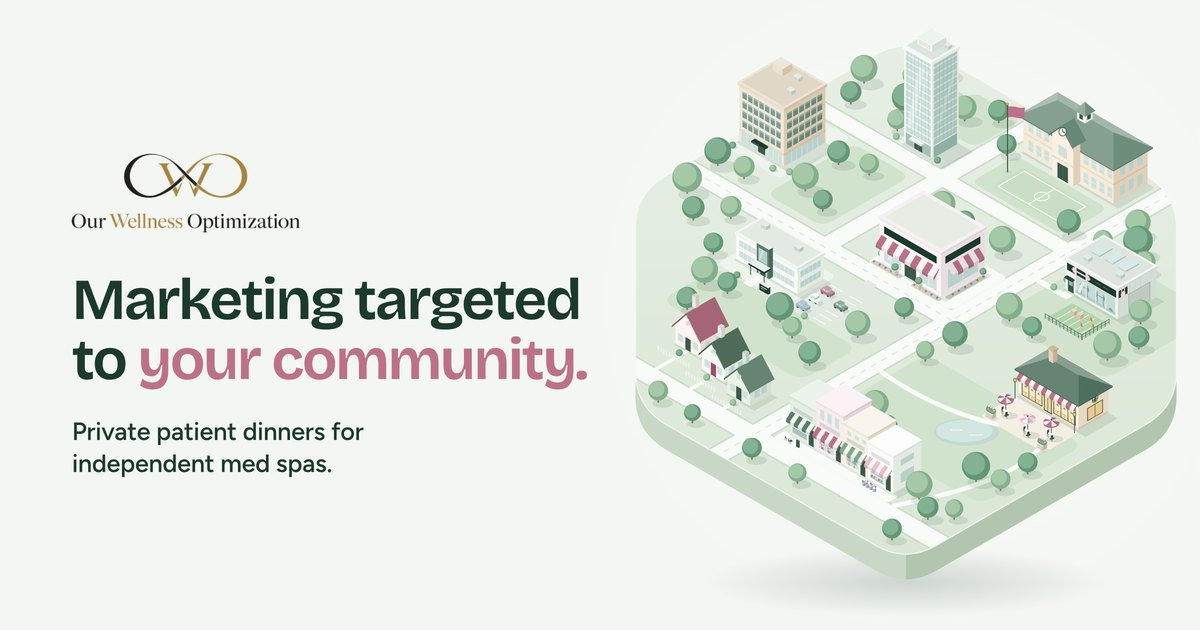
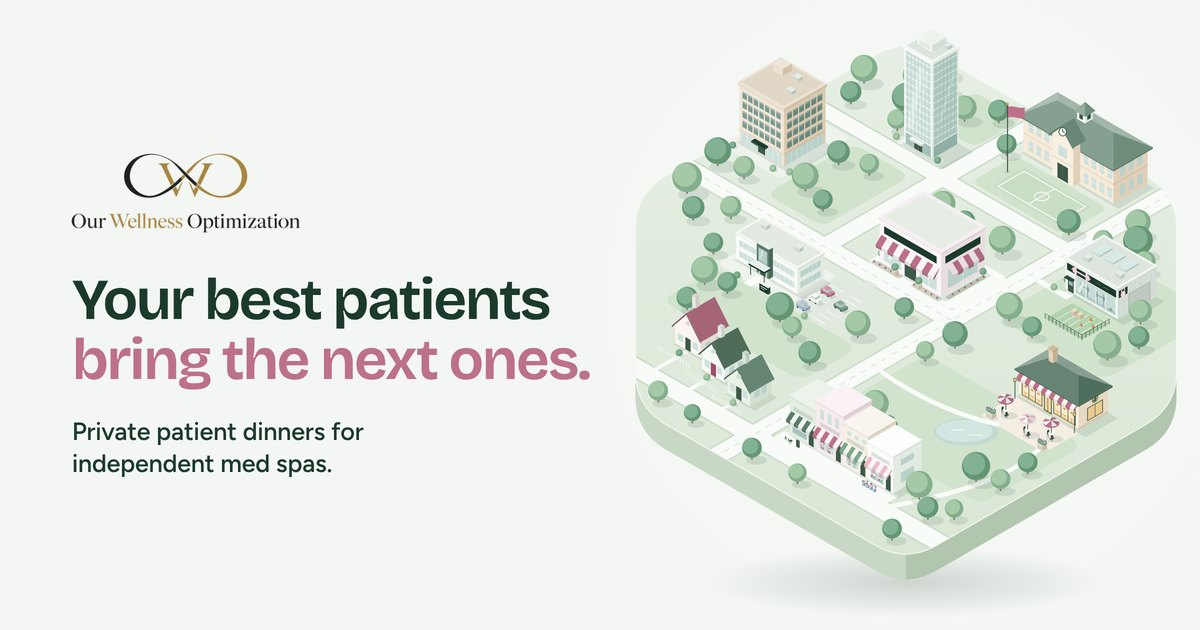
Share image: "Your best patients bring the next ones." (#19)
New share image og-best-patients.jpg (1200x630) with the current headline,
under a new file name so social platforms fetch it fresh. og:image and
og:image:alt updated on all seven pages with share tags; og.jpg,
og-community.jpg and og-dinners.jpg now carry the same art for older links.

Claude-Session: https://claude.ai/code/session_01QqY3Uip16oYiFzTZFxaAGH

Changed region(s): [[0.0617, 0.4222, 0.4933, 0.6333]]

diff --git a/index.html b/index.html
@@ -16,10 +16,10 @@
 <meta property="og:title" content="Your Best Patients Bring the Next Ones | Patient Dinners for Med Spas">
 <meta property="og:description" content="Your best patients bring the next ones. We plan and run private patient dinners for independent med spas in Chicago&rsquo;s western suburbs.">
 <meta property="og:url" content="https://ouroptimization.com/">
-<meta property="og:image" content="https://ouroptimization.com/assets/img/og-dinners.jpg">
+<meta property="og:image" content="https://ouroptimization.com/assets/img/og-best-patients.jpg">
 <meta property="og:image:width" content="1200">
 <meta property="og:image:height" content="630">
-<meta property="og:image:alt" content="Our Wellness Optimization logo with the words &ldquo;Marketing targeted to your community.&rdquo; and &ldquo;Private patient dinners for independent med spas.&rdquo; beside an illustrated map of a neighborhood around a clinic.">
+<meta property="og:image:alt" content="Our Wellness Optimization logo with the words &ldquo;Your best patients bring the next ones.&rdquo; and &ldquo;Private patient dinners for independent med spas.&rdquo; beside an illustrated map of a neighborhood around a clinic.">
 <meta name="twitter:card" content="summary_large_image">
 <meta name="twitter:title" content="Your Best Patients Bring the Next Ones | Patient Dinners for Med Spas">
 <meta name="twitter:description" content="Your best patients bring the next ones. We plan and run private patient dinners for independent med spas in Chicago&rsquo;s western suburbs.">

diff --git a/review-tags.html b/review-tags.html
@@ -16,10 +16,10 @@
 <meta property="og:title" content="Tap-to-Review NFC Tags | Our Wellness Optimization">
 <meta property="og:description" content="Branded NFC review tags with a QR code on the same piece: counter stands, table tents, cards and stickers that open your Google review form in one tap or scan.">
 <meta property="og:url" content="https://ouroptimization.com/review-tags">
-<meta property="og:image" content="https://ouroptimization.com/assets/img/og-dinners.jpg">
+<meta property="og:image" content="https://ouroptimization.com/assets/img/og-best-patients.jpg">
 <meta property="og:image:width" content="1200">
 <meta property="og:image:height" content="630">
-<meta property="og:image:alt" content="Our Wellness Optimization logo with the words &ldquo;Marketing targeted to your community.&rdquo; and &ldquo;Private patient dinners for independent med spas.&rdquo; beside an illustrated map of a neighborhood around a clinic.">
+<meta property="og:image:alt" content="Our Wellness Optimization logo with the words &ldquo;Your best patients bring the next ones.&rdquo; and &ldquo;Private patient dinners for independent med spas.&rdquo; beside an illustrated map of a neighborhood around a clinic.">
 <meta name="twitter:card" content="summary_large_image">
 <link rel="preload" href="assets/fonts/figtree-latin-wght-normal.woff2" as="font" type="font/woff2" crossorigin>
 <link rel="preload" href="assets/fonts/bricolage-grotesque-latin-wght-normal.woff2" as="font" type="font/woff2" crossorigin>

diff --git a/website-design.html b/website-design.html
@@ -16,10 +16,10 @@
 <meta property="og:title" content="Website Redesign | Our Wellness Optimization">
 <meta property="og:description" content="Website redesign for local clinics: service and area pages, a clear way to call or book on every page, fast mobile pages and tracking by channel.">
 <meta property="og:url" content="https://ouroptimization.com/website-design">
-<meta property="og:image" content="https://ouroptimization.com/assets/img/og-dinners.jpg">
+<meta property="og:image" content="https://ouroptimization.com/assets/img/og-best-patients.jpg">
 <meta property="og:image:width" content="1200">
 <meta property="og:image:height" content="630">
-<meta property="og:image:alt" content="Our Wellness Optimization logo with the words &ldquo;Marketing targeted to your community.&rdquo; and &ldquo;Private patient dinners for independent med spas.&rdquo; beside an illustrated map of a neighborhood around a clinic.">
+<meta property="og:image:alt" content="Our Wellness Optimization logo with the words &ldquo;Your best patients bring the next ones.&rdquo; and &ldquo;Private patient dinners for independent med spas.&rdquo; beside an illustrated map of a neighborhood around a clinic.">
 <meta name="twitter:card" content="summary_large_image">
 <link rel="preload" href="assets/fonts/figtree-latin-wght-normal.woff2" as="font" type="font/woff2" crossorigin>
 <link rel="preload" href="assets/fonts/bricolage-grotesque-latin-wght-normal.woff2" as="font" type="font/woff2" crossorigin>

diff --git a/terms.html b/terms.html
@@ -16,10 +16,10 @@
 <meta property="og:title" content="Terms of Service | Our Wellness Optimization">
 <meta property="og:description" content="How our patient dinners and add-ons for independent med spas work, how prices are agreed and work is approved, and what we do and do not promise.">
 <meta property="og:url" content="https://ouroptimization.com/terms">
-<meta property="og:image" content="https://ouroptimization.com/assets/img/og-dinners.jpg">
+<meta property="og:image" content="https://ouroptimization.com/assets/img/og-best-patients.jpg">
 <meta property="og:image:width" content="1200">
 <meta property="og:image:height" content="630">
-<meta property="og:image:alt" content="Our Wellness Optimization logo with the words &ldquo;Marketing targeted to your community.&rdquo; and &ldquo;Private patient dinners for independent med spas.&rdquo; beside an illustrated map of a neighborhood around a clinic.">
+<meta property="og:image:alt" content="Our Wellness Optimization logo with the words &ldquo;Your best patients bring the next ones.&rdquo; and &ldquo;Private patient dinners for independent med spas.&rdquo; beside an illustrated map of a neighborhood around a clinic.">
 <meta name="twitter:card" content="summary_large_image">
 <link rel="preload" href="assets/fonts/figtree-latin-wght-normal.woff2" as="font" type="font/woff2" crossorigin>
 <link rel="preload" href="assets/fonts/bricolage-grotesque-latin-wght-normal.woff2" as="font" type="font/woff2" crossorigin>

diff --git a/privacy.html b/privacy.html
@@ -16,10 +16,10 @@
 <meta property="og:title" content="Privacy Policy | Our Wellness Optimization">
 <meta property="og:description" content="What the call request form and the expo table form collect, how we use it, who else sees it, and how to ask us to delete it.">
 <meta property="og:url" content="https://ouroptimization.com/privacy">
-<meta property="og:image" content="https://ouroptimization.com/assets/img/og-dinners.jpg">
+<meta property="og:image" content="https://ouroptimization.com/assets/img/og-best-patients.jpg">
 <meta property="og:image:width" content="1200">
 <meta property="og:image:height" content="630">
-<meta property="og:image:alt" content="Our Wellness Optimization logo with the words &ldquo;Marketing targeted to your community.&rdquo; and &ldquo;Private patient dinners for independent med spas.&rdquo; beside an illustrated map of a neighborhood around a clinic.">
+<meta property="og:image:alt" content="Our Wellness Optimization logo with the words &ldquo;Your best patients bring the next ones.&rdquo; and &ldquo;Private patient dinners for independent med spas.&rdquo; beside an illustrated map of a neighborhood around a clinic.">
 <meta name="twitter:card" content="summary_large_image">
 <link rel="preload" href="assets/fonts/figtree-latin-wght-normal.woff2" as="font" type="font/woff2" crossorigin>
 <link rel="preload" href="assets/fonts/bricolage-grotesque-latin-wght-normal.woff2" as="font" type="font/woff2" crossorigin>

diff --git a/thanks.html b/thanks.html
@@ -17,10 +17,10 @@
 <meta property="og:title" content="Thank You | Our Wellness Optimization">
 <meta property="og:description" content="Thank you. Mustafa will call you at the time you picked.">
 <meta property="og:url" content="https://ouroptimization.com/thanks">
-<meta property="og:image" content="https://ouroptimization.com/assets/img/og-dinners.jpg">
+<meta property="og:image" content="https://ouroptimization.com/assets/img/og-best-patients.jpg">
 <meta property="og:image:width" content="1200">
 <meta property="og:image:height" content="630">
-<meta property="og:image:alt" content="Our Wellness Optimization logo with the words &ldquo;Marketing targeted to your community.&rdquo; and &ldquo;Private patient dinners for independent med spas.&rdquo; beside an illustrated map of a neighborhood around a clinic.">
+<meta property="og:image:alt" content="Our Wellness Optimization logo with the words &ldquo;Your best patients bring the next ones.&rdquo; and &ldquo;Private patient dinners for independent med spas.&rdquo; beside an illustrated map of a neighborhood around a clinic.">
 <meta name="twitter:card" content="summary_large_image">
 <link rel="preload" href="/assets/fonts/figtree-latin-wght-normal.woff2" as="font" type="font/woff2" crossorigin>
 <link rel="preload" href="/assets/fonts/bricolage-grotesque-latin-wght-normal.woff2" as="font" type="font/woff2" crossorigin>

diff --git a/404.html b/404.html
@@ -14,10 +14,10 @@
 <meta property="og:site_name" content="Our Wellness Optimization">
 <meta property="og:title" content="Page not found | Our Wellness Optimization">
 <meta property="og:description" content="This page does not exist.">
-<meta property="og:image" content="https://ouroptimization.com/assets/img/og-dinners.jpg">
+<meta property="og:image" content="https://ouroptimization.com/assets/img/og-best-patients.jpg">
 <meta property="og:image:width" content="1200">
 <meta property="og:image:height" content="630">
-<meta property="og:image:alt" content="Our Wellness Optimization logo with the words &ldquo;Marketing targeted to your community.&rdquo; and &ldquo;Private patient dinners for independent med spas.&rdquo; beside an illustrated map of a neighborhood around a clinic.">
+<meta property="og:image:alt" content="Our Wellness Optimization logo with the words &ldquo;Your best patients bring the next ones.&rdquo; and &ldquo;Private patient dinners for independent med spas.&rdquo; beside an illustrated map of a neighborhood around a clinic.">
 <meta name="twitter:card" content="summary_large_image">
 <meta name="robots" content="noindex">
 <link rel="preload" href="/assets/fonts/figtree-latin-wght-normal.woff2" as="font" type="font/woff2" crossorigin>

diff --git a/README.md b/README.md
@@ -70,7 +70,7 @@ Older redirects point straight at their final target, with no chains: `/who-its-
 
 Visuals are drawn in code (SVG or HTML and CSS, rasterised with Playwright where a bitmap is needed). Never use AI image or video generation. The home hero is `assets/img/hero-map.svg`: your clinic at the hub, with offices (referral network), small businesses (flyer drops), training facilities (partner referrals), restaurants (sponsored events, where the patient dinners happen) and neighborhoods (Google Ads); the school is unlabelled scenery.
 
-Share image: `assets/img/og-dinners.jpg` (1200 x 630) on every page that has share tags. Social platforms cache link previews by image URL, so when the share image changes, save it under a new file name and update `og:image` on every page, then re-scrape the home page in the Facebook Sharing Debugger and the LinkedIn Post Inspector. `og-community.jpg` and `og.jpg` are byte-for-byte copies of `og-dinners.jpg`, so links shared before October 2026 (which still point at those names) show the new art once a platform re-scrapes them.
+Share image: `assets/img/og-best-patients.jpg` (1200 x 630, headline "Your best patients bring the next ones.") on every page that has share tags. Social platforms cache link previews by image URL, so when the share image changes, save it under a new file name and update `og:image` on every page, then re-scrape the home page in the Facebook Sharing Debugger and the LinkedIn Post Inspector. `og-dinners.jpg`, `og-community.jpg` and `og.jpg` are byte-for-byte copies of `og-best-patients.jpg`, so links shared earlier (which still point at those names) show the new art once a platform re-scrapes them.
 
 Images used only by the retired pages, the old hero (`hero-community.svg`) and the other Grace Pediatrics photos and video were deleted in October 2026. `assets/img` holds only what a kept page uses: `hero-map.svg`, `dinner-table.svg`, the Grace Pediatrics gift-tin photo (`kit-tins*`), `owo-logo.png`, the share images, and the `review-tag*` and `website-redesign*` illustrations.
 
